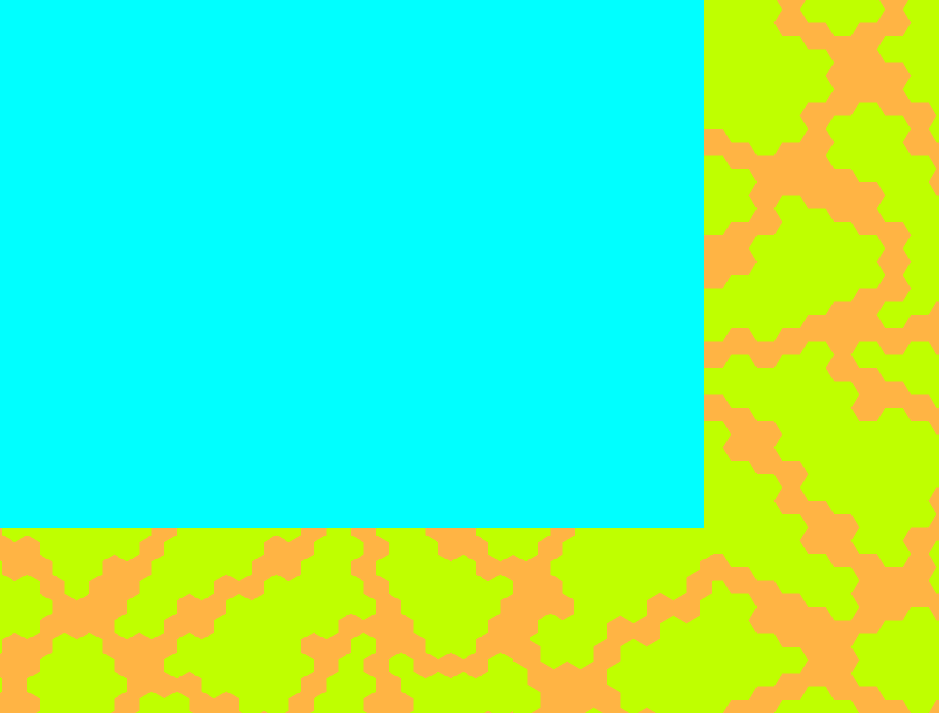
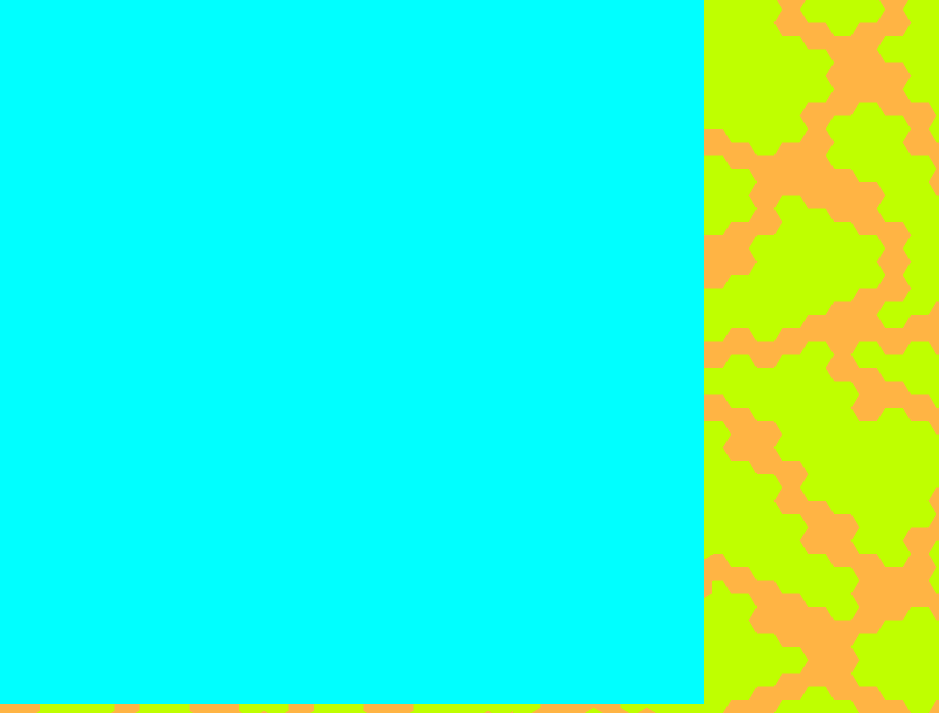
changed the size of the tiles

Changed region(s): [[0.0, 0.7405, 0.7721, 0.9874]]

diff --git a/MDE/Map.cpp b/MDE/Map.cpp
@@ -207,64 +207,64 @@ Texture* Map::getMapAsTexture(){
 
 	//sprite rect set;
 	floor.x = 64;
-	floor.y = 48;
+	floor.y = 64;
 	floor.w = 64;
-	floor.h = 48;
+	floor.h = 64;
 
 	top_wall.x = 64;
 	top_wall.y = 0;
 	top_wall.w = 64;
-	top_wall.h = 48;
+	top_wall.h = 64;
 
 	top_left_corner.x = 0;
 	top_left_corner.y = 0;
 	top_left_corner.w = 64;
-	top_left_corner.h = 48;
+	top_left_corner.h = 64;
 
 	left_wall.x = 0;
-	left_wall.y = 48;
+	left_wall.y = 64;
 	left_wall.w = 64;
-	left_wall.h = 48;
+	left_wall.h = 64;
 
 	bottom_left_corner.x = 0;
-	bottom_left_corner.y = 96;
+	bottom_left_corner.y = 128;
 	bottom_left_corner.w = 64;
-	bottom_left_corner.h = 48;
+	bottom_left_corner.h = 64;
 
 	bottom_wall.x = 64;
-	bottom_wall.y = 96;
+	bottom_wall.y = 128;
 	bottom_wall.w = 64;
-	bottom_wall.h = 48;
+	bottom_wall.h = 64;
 
 	bottom_right_corner.x = 128;
-	bottom_right_corner.y = 96;
+	bottom_right_corner.y = 128;
 	bottom_right_corner.w = 64;
-	bottom_right_corner.h = 48;
+	bottom_right_corner.h = 64;
 
 	right_wall.x = 128;
-	right_wall.y = 48;
+	right_wall.y = 64;
 	right_wall.w = 64;
-	right_wall.h = 48;
+	right_wall.h = 64;
 
 	top_right_corner.x = 128;
 	top_right_corner.y = 0;
 	top_right_corner.w = 64;
-	top_right_corner.h = 48;
+	top_right_corner.h = 64;
 
 	blank.x = 192;
 	blank.y = 0;
 	blank.w = 64;
-	blank.h = 48;
+	blank.h = 64;
 
 	stairs_up.x = 192;
-	stairs_up.y = 48;
+	stairs_up.y = 64;
 	stairs_up.w = 64;
-	stairs_up.h = 48;
+	stairs_up.h = 64;
 
 	stairs_down.x = 192;
-	stairs_down.y = 96;
+	stairs_down.y = 128;
 	stairs_down.w = 64;
-	stairs_down.h = 48;
+	stairs_down.h = 64;
 
 
 	SDL_SetRenderTarget(renderer, tex->getTexture());

diff --git a/MDE/GlobalDef.h b/MDE/GlobalDef.h
@@ -5,10 +5,10 @@
 #define GRID_HEIGHT 50
 ///how wide the rendered map is
 
-#define CAMERA_GRID_WIDTH 22
+#define CAMERA_GRID_WIDTH 19
 
 ///how high the rendered map is
-#define CAMERA_GRID_HEIGHT 22
+#define CAMERA_GRID_HEIGHT 19
 
 ///the window width in pixels
 #define WINDOW_WIDTH 939
@@ -17,10 +17,10 @@
 #define WINDOW_HEIGHT 713
 
 /// the tile width in pixels
-#define TILE_WIDTH 32
+#define TILE_WIDTH 37
 
 ///the tile height in pixels
-#define TILE_HEIGHT 24
+#define TILE_HEIGHT 37
 
 ///the max room count in the game
 #define MAX_ROOMS 25

diff --git a/MDE/Character.cpp b/MDE/Character.cpp
@@ -68,7 +68,7 @@ bool Character::Health(int damage){
 void Character::render(){
 	lastTickCount = currentTickCount;
 	currentTickCount = SDL_GetTicks();
-	location = { coord.x * TILE_WIDTH, ((coord.y - 1) * TILE_HEIGHT), TILE_WIDTH, TILE_HEIGHT *2};
+	location = { coord.x * TILE_WIDTH, coord.y  * TILE_HEIGHT, TILE_WIDTH, TILE_HEIGHT };
 	if (health > 0){
 		if (direction == 2){
 			sprite = faceDown;
